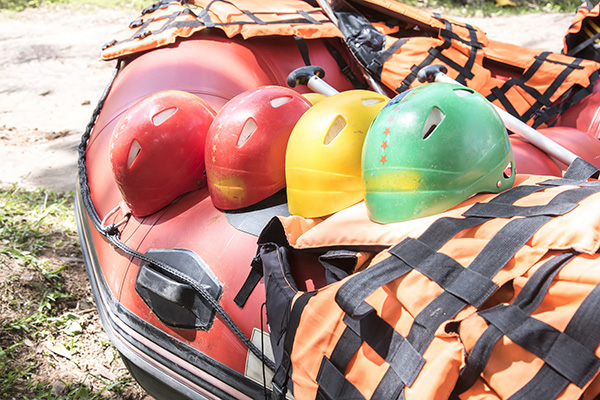
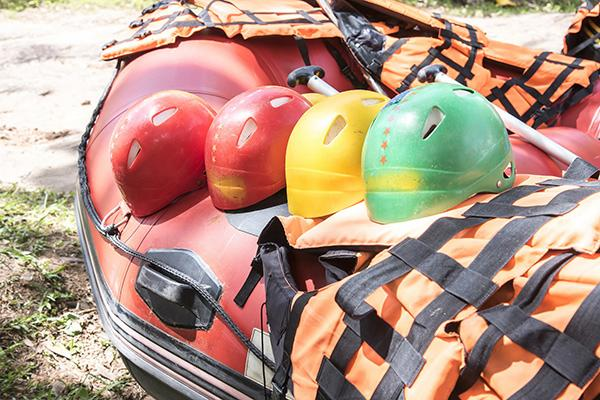
change div order

diff --git a/wwr/about.html b/wwr/about.html
@@ -38,40 +38,40 @@
                   alt="Close up of a happy costumer with security equipment on">
                 <p>company purpose, mission, creed, motto</p>
             </article>
-            <section class="history">
-                <h2>History</h2>
-                <p>brief history of the company. It is OK to use nonsense language.</p>
-                <img src="images/history.jpg"
-                  alt="Close up of a happy costumer with security equipment on">
-                <p>brief history of the company. It is OK to use nonsense language.</p>
-            </section>
-            <section class="adventure">
-                <h2>Adventure Awaits You!</h2>
-                <figure>
-                    <img src="images/jalcomulco.jpg"
-                      alt="people on a raft, on calm water, Jalcomulco Veracruz.">
-                    <figcaption> Jalcomulco </figcaption>
-                </figure>
-                <figure>
-                    <img src="images/adventure2.jpg"
-                      alt="People with life vests and helmets on a raft, through a river ">
-                    <figcaption> Pacuare </figcaption>
-                </figure>
-                <figure>
-                    <img src="images/cancun.JPG" alt="People with life vests on a boat in the sea">
-                    <figcaption> Cancún </figcaption>
-                </figure>
-                <figure>
-                    <img src="images/adventure4.jpg"
-                      alt="People with life vests and helmets waving at the camera on a boat on dry land">
-                    <figcaption> Zambeze </figcaption>
-                </figure>
-                <figure>
-                    <img src="images/adventure5.jpg" alt="IMAGE">
-                    <figcaption> Futaleufú </figcaption>
-                </figure>
-            </section>
         </div>
+        <section class="history">
+            <h2>History</h2>
+            <p>brief history of the company. It is OK to use nonsense language.</p>
+            <img src="images/history.jpg"
+              alt="Close up of a happy costumer with security equipment on">
+            <p>brief history of the company. It is OK to use nonsense language.</p>
+        </section>
+        <section class="adventure">
+            <h2>Adventure Awaits You!</h2>
+            <figure>
+                <img src="images/jalcomulco.jpg"
+                  alt="people on a raft, on calm water, Jalcomulco Veracruz.">
+                <figcaption> Jalcomulco </figcaption>
+            </figure>
+            <figure>
+                <img src="images/adventure2.jpg"
+                  alt="People with life vests and helmets on a raft, through a river ">
+                <figcaption> Pacuare </figcaption>
+            </figure>
+            <figure>
+                <img src="images/cancun.JPG" alt="People with life vests on a boat in the sea">
+                <figcaption> Cancún </figcaption>
+            </figure>
+            <figure>
+                <img src="images/adventure4.jpg"
+                  alt="People with life vests and helmets waving at the camera on a boat on dry land">
+                <figcaption> Zambeze </figcaption>
+            </figure>
+            <figure>
+                <img src="images/adventure5.jpg" alt="IMAGE">
+                <figcaption> Futaleufú </figcaption>
+            </figure>
+        </section>
 
     </main>
 

diff --git a/wwr/styles/rafting.css b/wwr/styles/rafting.css
@@ -74,6 +74,10 @@ article {
     margin: 16px;
 }
 
+/* p {
+    padding: 1rem;
+} */
+
 .socialmedia a {
     text-decoration: none;
     width: 40px;
@@ -134,10 +138,14 @@ article {
     text-align: center;
 }
 
+.history img {
+    width: 300px;
+}
+
 .adventure {
     display: grid;
     grid-template-columns: 1fr 1fr 1fr 1fr 1fr;
-    grid-template-rows: 1fr 10fr;
+    grid-template-rows: 1fr 6fr;
     border: 3px solid var(--primary-color);
     align-items: center;
     text-align: center;
@@ -145,6 +153,10 @@ article {
 
 .adventure h2 {
     grid-column: 1/6;
+}
+
+.adventure img {
+    width: 150px;
 }
 
 footer {
